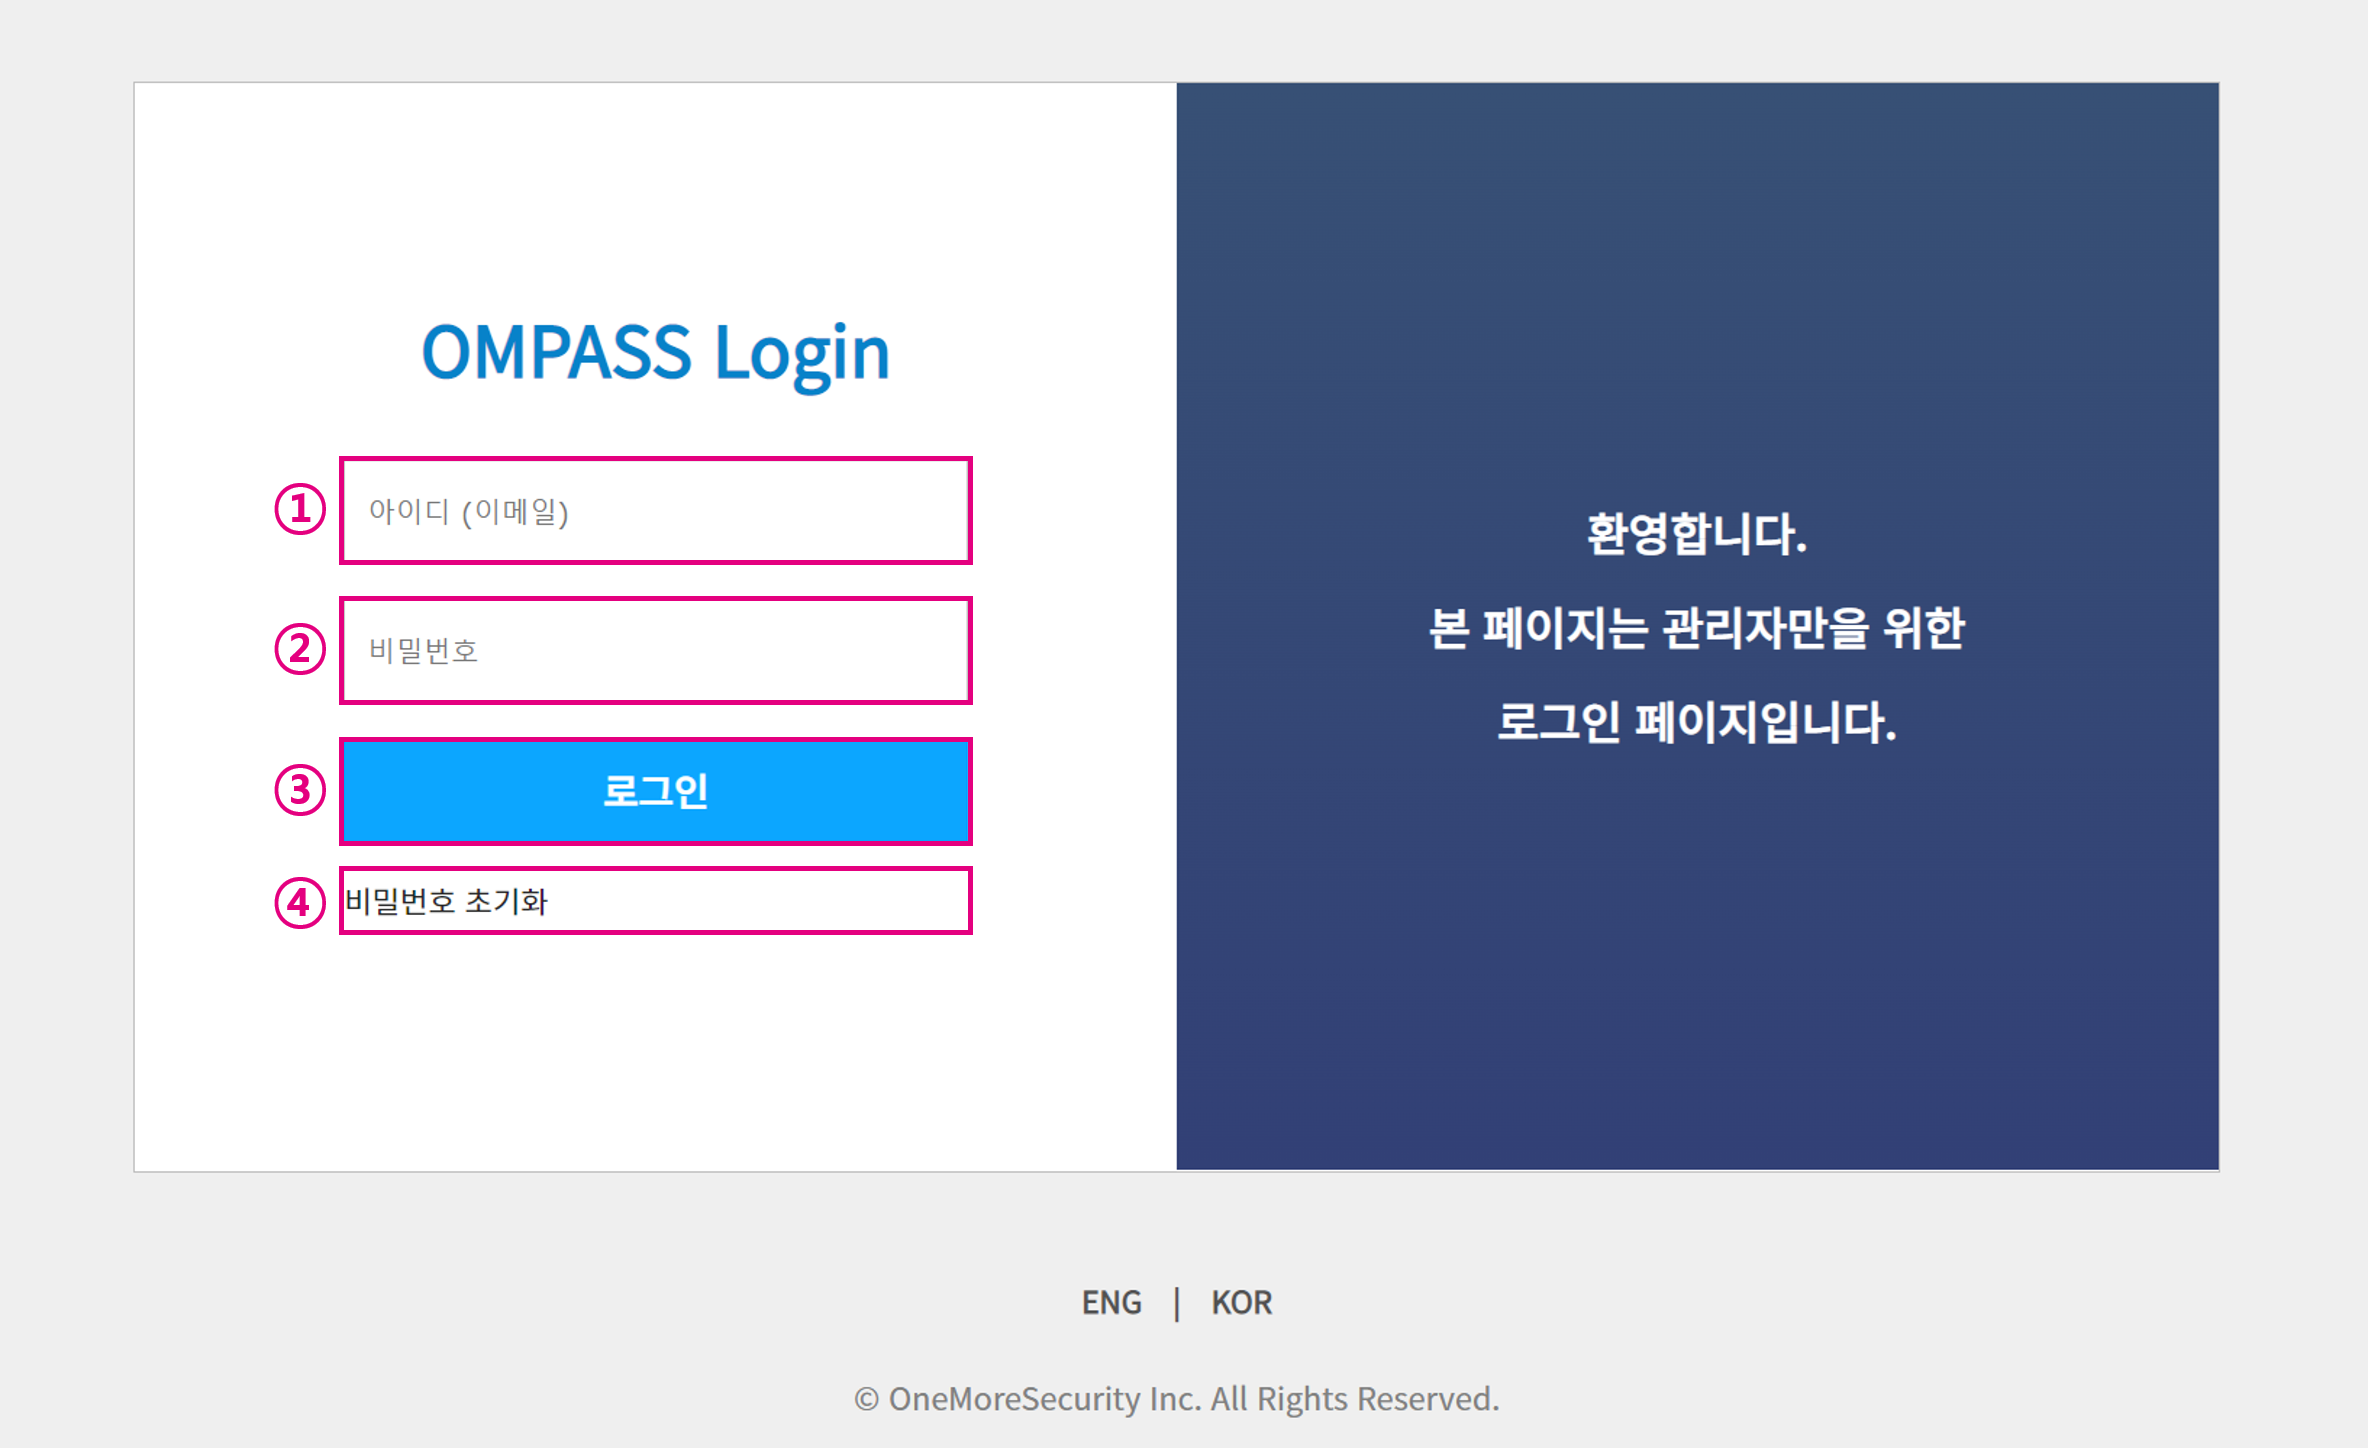
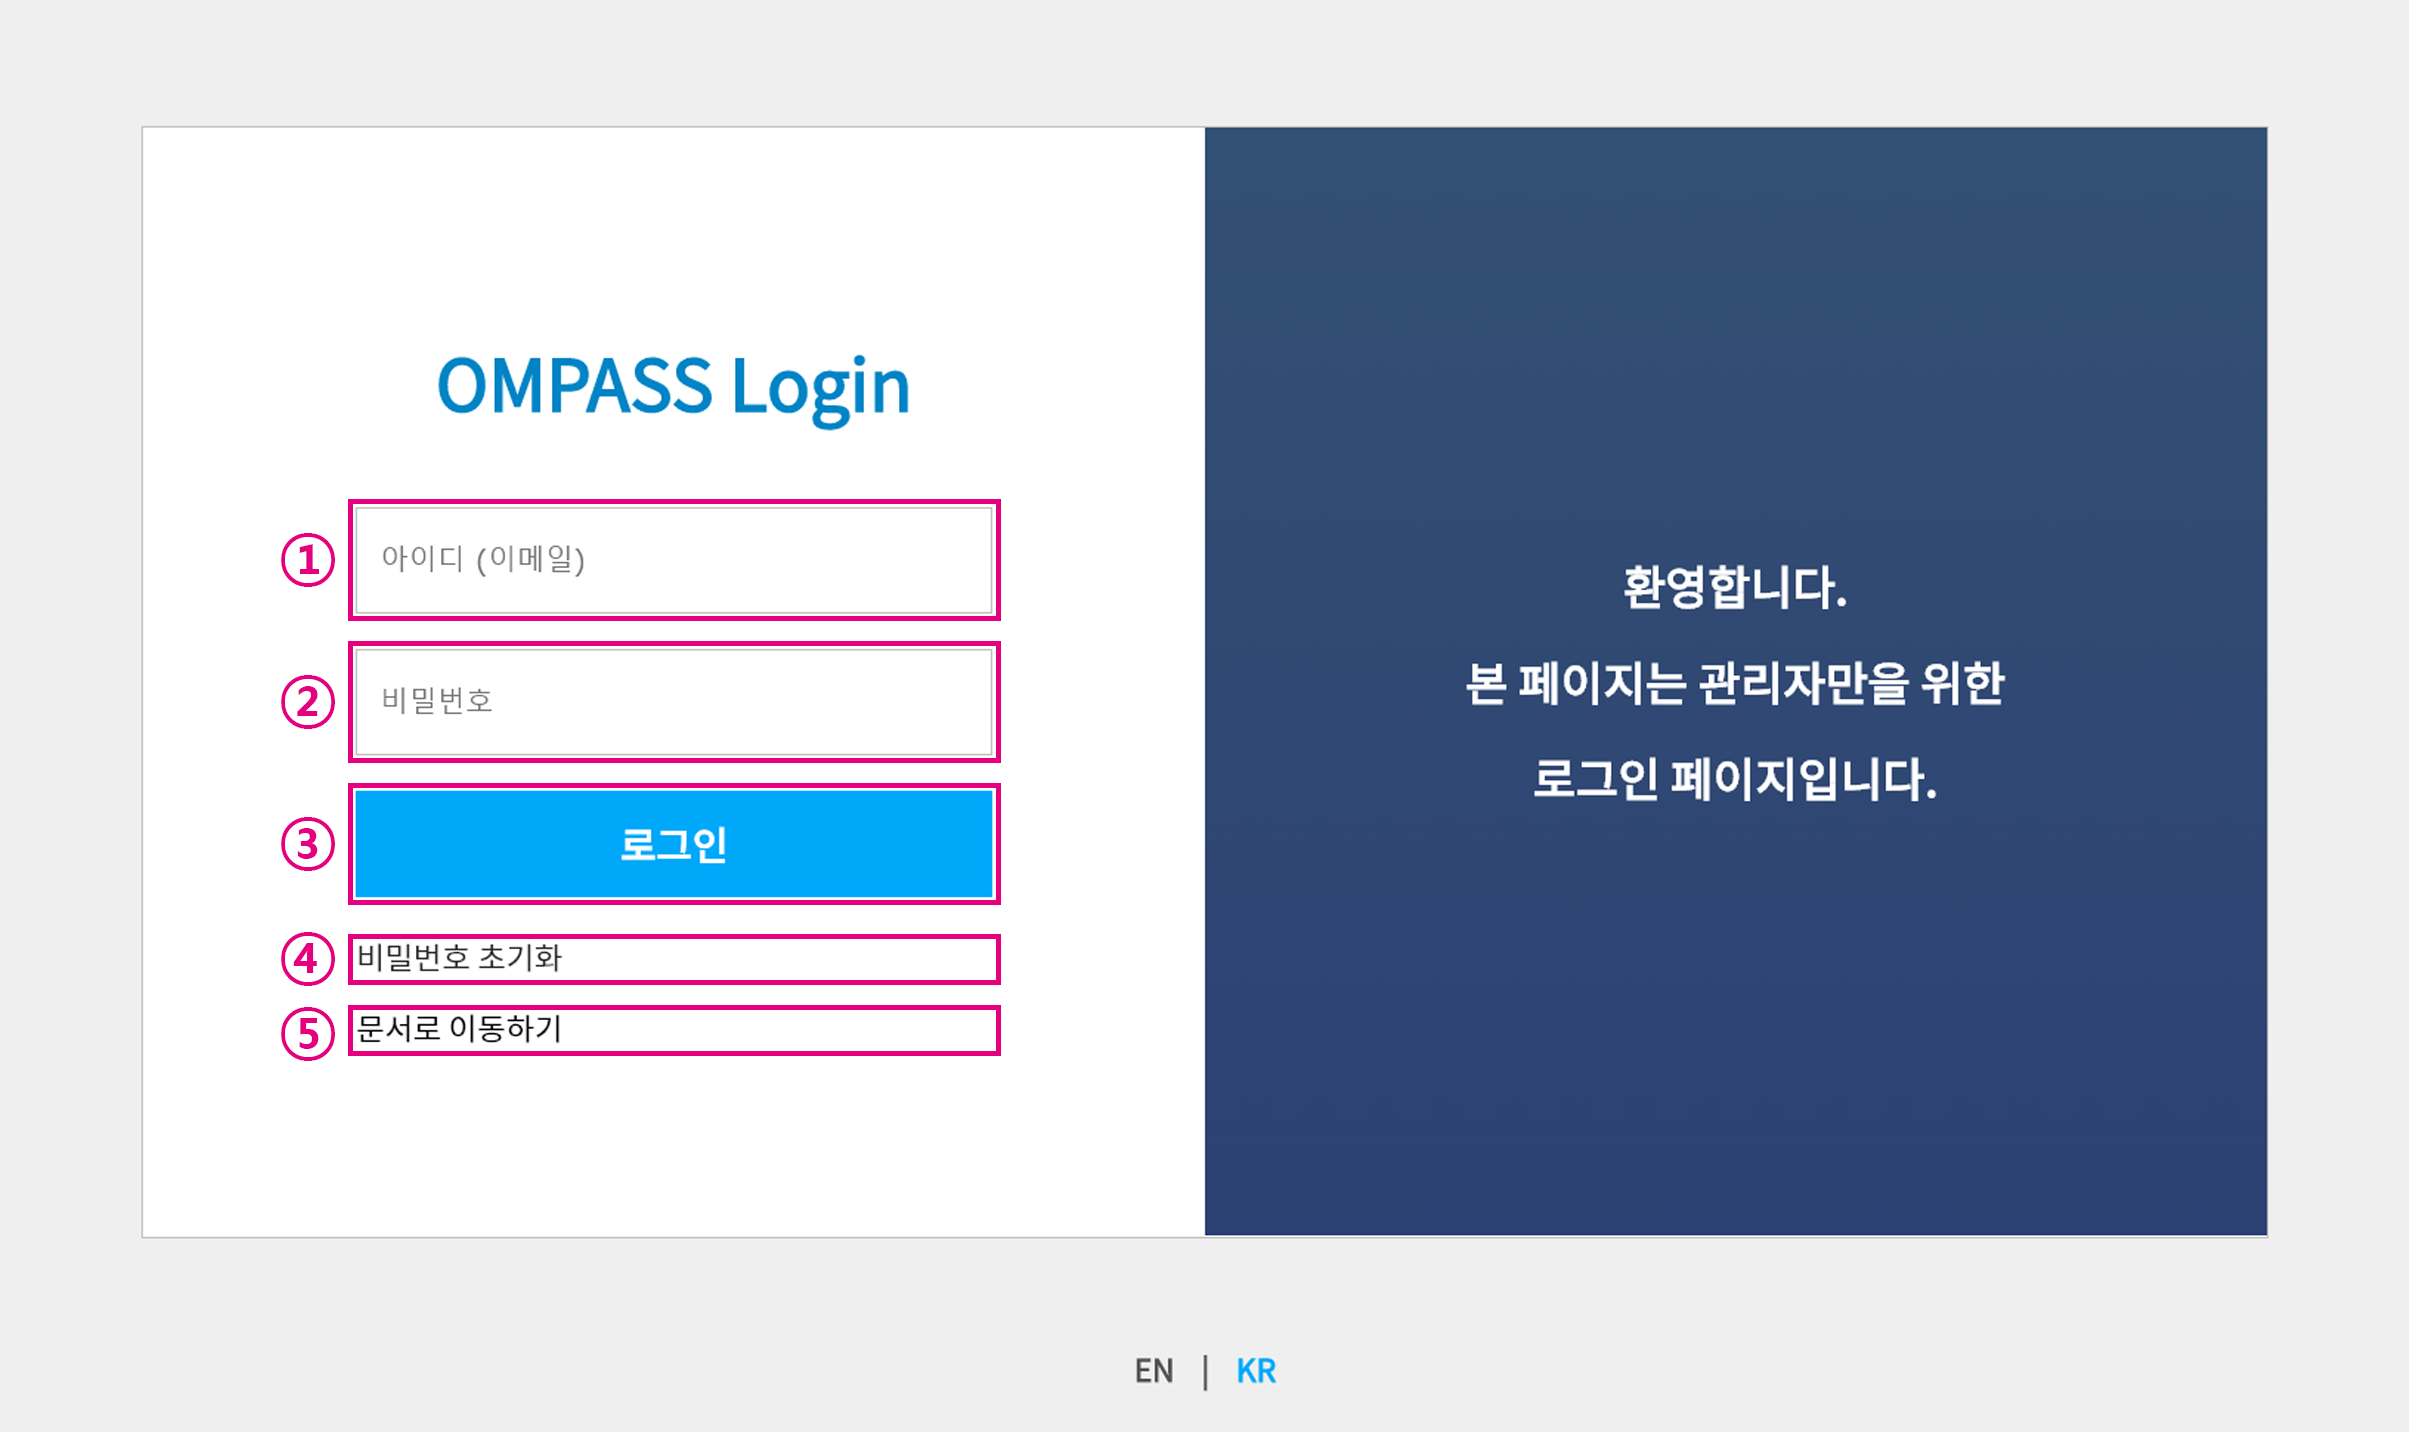
docs login 수정

diff --git a/src/locale/DocsText.js b/src/locale/DocsText.js
@@ -342,6 +342,7 @@ const locales = {
         "를 눌러주세요.": " ",
         "기본으로 제공되는 ADMIN 계정은 삭제가 불가능합니다.": "The main ADMIN account cannot be deleted.",
         "interfaceURL": "(Installed interface's web URL)",
+        "On-Premise 전용 문서로 이동하는 기능입니다.": "Ability to navigate to On-Premise-Only documents."
     },
     KR: {
         "로그인": "로그인",
@@ -689,6 +690,7 @@ const locales = {
         "를 눌러주세요.": "를 눌러주세요.",
         "기본으로 제공되는 ADMIN 계정은 삭제가 불가능합니다.": "기본으로 제공되는 ADMIN 계정은 삭제가 불가능합니다.",
         "interfaceURL": "(설치된 인터페이스 URL)",
+        "On-Premise 전용 문서로 이동하는 기능입니다.": "On-Premise 전용 문서로 이동하는 기능입니다."
     },
 };
 

diff --git a/src/Layout/Sidebar/OnpremiseDocuments/Login.js b/src/Layout/Sidebar/OnpremiseDocuments/Login.js
@@ -49,6 +49,12 @@ const Login = () => {
               <FormattedMessage id="비밀번호를 잊어버렸을 시 사용가능 한 기능입니다." />
             </p>
           </div>
+          <div className="document-label">
+            <label className="number">❺&nbsp;</label>
+            <p>
+              <FormattedMessage id="On-Premise 전용 문서로 이동하는 기능입니다." />
+            </p>
+          </div>
         </div>
       </div>
       {/* =================================================================== */}
